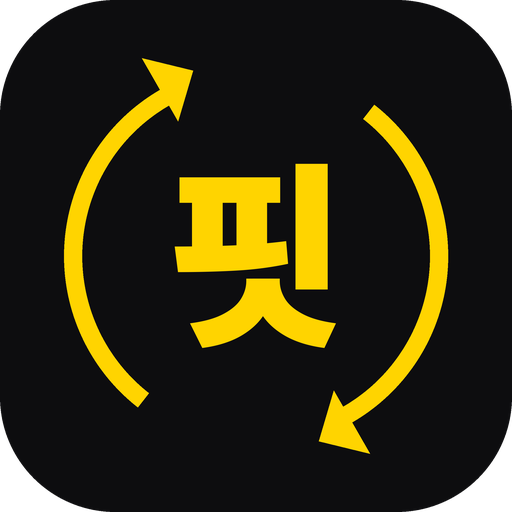
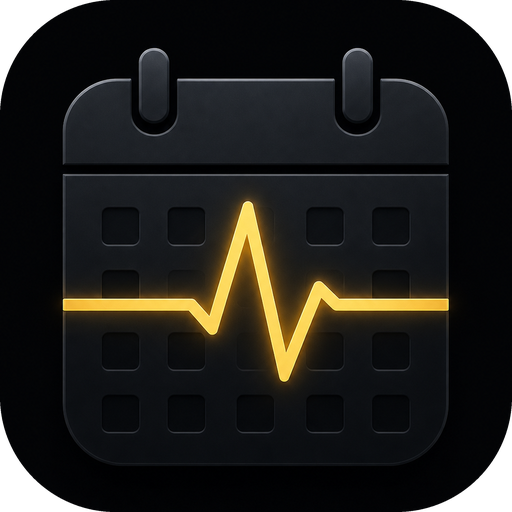
feat(v2.3.2): 앱 아이콘 전면 교체 — 다크 달력 + 골드 펄스(사용자 선택 2번) · 상단 로고 배지도 같은 아이콘 · 캐시버스트 ?v=2.3.2

Changed region(s): [[0.125, 0.0938, 0.875, 0.9062], [0.2188, 0.4688, 0.2812, 0.5]]

diff --git a/index.html b/index.html
@@ -11,9 +11,9 @@
 <meta name="apple-mobile-web-app-status-bar-style" content="black">
 <meta name="apple-mobile-web-app-title" content="교대핏">
 <link rel="manifest" href="manifest.json">
-<link rel="apple-touch-icon" href="apple-touch-icon.png">
-<link rel="icon" type="image/png" sizes="32x32" href="favicon-32.png">
-<link rel="icon" type="image/png" sizes="192x192" href="icon-192.png">
+<link rel="apple-touch-icon" href="apple-touch-icon.png?v=2.3.2">
+<link rel="icon" type="image/png" sizes="32x32" href="favicon-32.png?v=2.3.2">
+<link rel="icon" type="image/png" sizes="192x192" href="icon-192.png?v=2.3.2">
 <link rel="stylesheet" href="https://cdn.jsdelivr.net/gh/orioncactus/pretendard@v1.3.9/dist/web/variable/pretendardvariable-dynamic-subset.min.css">
 <style>
 /* app.css를 못 불러온 경우에도 검색창·검색 버튼·요청 링크가 깨지지 않게 하는 최소 안전장치 (app.css가 오면 이 규칙을 덮어씁니다) */
@@ -24,7 +24,7 @@
 .co-ask-row{display:flex;gap:6px;align-items:stretch}
 .co-ask-b{flex:1 1 0;display:block;padding:9px 7px;border:1px solid #2A2A30;border-radius:11px;background:#1C1C21;color:#EEE;text-decoration:none;text-align:center;font-size:11px;line-height:1.35}
 </style>
-<link rel="stylesheet" href="app.css?v=2.3.1">
+<link rel="stylesheet" href="app.css?v=2.3.2">
 <script>
 /* 저장해둔 화면 테마를 첫 그림 전에 적용 (흰 화면 깜빡임 방지) */
 (function () {
@@ -42,7 +42,7 @@
 
   <header class="topbar">
     <div class="brand">
-      <span class="brand-mark">핏</span>
+      <img class="brand-mark" src="icon-192.png?v=2.3.2" alt="" width="30" height="30">
       <span class="brand-txt">
         <b>교대핏</b>
         <i id="topSub">by 킹용코 · 4조 2교대 · A조</i>
@@ -127,7 +127,7 @@
         </div>
       </div>
 
-      <div class="foot-note">교대핏 v2.3.1 · 기록은 이 기기에만 저장됩니다</div>
+      <div class="foot-note">교대핏 v2.3.2 · 기록은 이 기기에만 저장됩니다</div>
     </section>
 
     <!-- ============ 달력 (첫 화면) ============ -->
@@ -453,7 +453,7 @@
         <span class="cta-ar">↗</span>
       </a>
 
-      <div class="foot-note">교대핏 v2.3.1 · 킹용코</div>
+      <div class="foot-note">교대핏 v2.3.2 · 킹용코</div>
     </section>
 
     <!-- ============ 설정 ============ -->
@@ -568,7 +568,7 @@
         <div class="help">기록은 이 브라우저(localStorage)에만 저장됩니다. 백업 없이 브라우저 데이터를 지우면 기록도 사라집니다.</div>
       </div>
 
-      <div class="foot-note">교대핏 v2.3.1 · 킹용코</div>
+      <div class="foot-note">교대핏 v2.3.2 · 킹용코</div>
     </section>
   </main>
 
@@ -722,6 +722,6 @@
   </div>
 </div>
 
-<script src="app.js?v=2.3.1"></script>
+<script src="app.js?v=2.3.2"></script>
 </body>
 </html>

diff --git a/app.js b/app.js
@@ -1,5 +1,5 @@
 /* ===================================================================
-   교대핏 v2.3.1 — 교대근무 + 헬스·식단 코칭 PWA
+   교대핏 v2.3.2 — 교대근무 + 헬스·식단 코칭 PWA
    순수 JS · localStorage · 단일 폴더 배포용
    v2  : 가이드 탭 · 오늘 내 근무 원탭 역산 · 2026~2027 공휴일 · 러닝 기록
    v2.1: 화면 테마 3종 · A·B·C·D조 표기 · 조 순환 순서(기본 A→C→D→B)
@@ -15,6 +15,7 @@
          · 이달 근태 정산 — 대근·특근·연차·교육 횟수 + 예정 근무시간
          · 근무표 이미지 저장 — 현재 보는 달(내 달력/전체 조)을 1080px PNG로
            (공유 시트 → 없으면 다운로드 + 미리보기 모달)
+   v2.3.2: 앱 아이콘 교체 — 다크 달력 + 골드 펄스(사용자 선택 2번) · 상단 로고 배지도 같은 아이콘
    v2.3.1: 회사 추가 — 한국엔지니어링플라스틱(석유화학 · 4조 2교대 주 07:00~19:00/야 19:00~07:00, 별칭 KEP·한엔플·한국엔지니어링)
    =================================================================== */
 (function () {

diff --git a/sw.js b/sw.js
@@ -1,11 +1,11 @@
-/* 교대핏 service worker v2.3.1
+/* 교대핏 service worker v2.3.2
    목표: 온라인에서는 항상 최신 파일, 오프라인에서는 앱 껍데기 캐시
    - install  : 새 캐시에 자산을 미리 담고 바로 대기 해제(skipWaiting)
    - activate : 구버전 캐시(yongko-shift-*) 전부 삭제 + clients.claim()
    - fetch    : 같은 출처는 네트워크 우선(Network-First). 성공하면 캐시 갱신 후 반환,
                 실패(오프라인)일 때만 캐시 폴백 → 구버전 CSS/JS가 섞이는 현상 원천 차단
 */
-var VERSION = '2.3.1';
+var VERSION = '2.3.2';
 var CACHE = 'yongko-shift-v' + VERSION;
 var ASSETS = [
   './',

diff --git a/app.css b/app.css
@@ -144,9 +144,8 @@ sub{font-size:inherit}
 .brand{display:flex;align-items:center;gap:10px}
 .brand-mark{
   width:30px;height:30px;border-radius:9px;flex:0 0 auto;
-  background:var(--yellow);color:var(--on-accent);
-  display:grid;place-items:center;font-weight:800;font-size:15px;
-  box-shadow:0 0 0 1px rgba(var(--accent-rgb),.35),0 6px 16px rgba(var(--accent-rgb),.18);
+  display:block;object-fit:cover;background:#05060A;
+  box-shadow:0 0 0 1px rgba(255,255,255,.10),0 6px 16px rgba(0,0,0,.45);
 }
 .brand-txt{display:flex;flex-direction:column;line-height:1.15}
 .brand-txt b{font-size:16px;font-weight:800;letter-spacing:-.02em}

diff --git a/README.md b/README.md
@@ -1,4 +1,4 @@
-# 교대핏 (v2.3.1)
+# 교대핏 (v2.3.2)
 
 킹용코(@kingyongko) 교대근무 + 헬스 웹앱. **순수 HTML/CSS/JS**라서 이 폴더만 통째로 올리면 바로 돌아갑니다.
 
@@ -15,12 +15,23 @@ kingyongko_shift_app/
 ├─ app.css                 # 테마 3종 (다크 골드 / 밝은 화이트 / 네이비 블루) · CSS 변수
 ├─ app.js                  # 교대 계산 · 내 회사 찾기 · 코칭 · 공휴일 · 기록 (localStorage)
 ├─ manifest.json           # PWA 매니페스트 (교대핏)
-├─ sw.js                   # 서비스워커 — 네트워크 우선 + 오프라인 캐시 (캐시명 yongko-shift-v2.3.1)
-├─ icon-192.png · icon-512.png          # 앱 아이콘 (골드 '핏' + 교대 회전 링)
+├─ sw.js                   # 서비스워커 — 네트워크 우선 + 오프라인 캐시 (캐시명 yongko-shift-v2.3.2)
+├─ icon-192.png · icon-512.png          # 앱 아이콘 (다크 달력 + 골드 펄스)
 ├─ icon-maskable-192.png · ...-512.png  # 안드로이드 마스크용
 ├─ apple-touch-icon.png    # 아이폰 홈 화면 아이콘
 └─ favicon-32.png
 ```
+
+## v2.3.2에서 바뀐 것 (2026-11-27)
+
+- **앱 아이콘 전면 교체 — 다크 달력 + 골드 펄스**(사용자가 세 안 중 고른 2번). 기존 골드 `핏` + 회전 링 아이콘을 내리고, **검은 달력 위로 골드 심전도 펄스**가 지나가는 디자인으로 6종 전부 다시 뽑았습니다.
+  - `icon-512.png` / `icon-192.png` — 둥근 모서리(22.5%) any 아이콘
+  - `icon-maskable-512.png` / `icon-maskable-192.png` — 안드로이드 적응형 아이콘용. 내용을 **74%** 안에 넣고 배경은 사방 꽉 채워 잘리지 않습니다.
+  - `apple-touch-icon.png`(180) — 아이폰 홈 화면용, 투명 없는 불투명 정사각
+  - `favicon-32.png` — 32px에서도 펄스가 읽히게 골드 펄스 중심으로 크롭 + 밝기 보정
+- **상단 로고 배지** — 노란 `핏` 글자 배지 대신 **같은 아이콘(icon-192) 30px**로 통일.
+- `index.html` 아이콘 링크에 `?v=2.3.2` 캐시버스터 · `app.css`/`app.js` 쿼리 갱신 · `sw.js` `CACHE = yongko-shift-v2.3.2` · 화면 하단 표기 `교대핏 v2.3.2`.
+  - 홈 화면에 이미 설치한 앱은 **한 번 새로 열면** 새 서비스워커가 캐시를 갈아끼웁니다. 아이콘 그림 자체는 iOS가 설치 시점에 저장하므로, 완전히 새 아이콘으로 보려면 **홈 화면에서 지우고 다시 추가**하면 됩니다.
 
 ## v2.3.1에서 바뀐 것 (2026-11-26)
 
@@ -96,7 +107,7 @@ python3 -m http.server 8123
 
 - **GitHub Pages** — 이미 배포됨: `main` 브랜치 루트 → https://nyk5191-creator.github.io/kingyongko-shift/
   파일을 고쳐 `main`에 푸시하면 30~60초 뒤 자동 반영됩니다.
-  ⚠ `sw.js`를 고쳤다면 `CACHE` 값을 `yongko-shift-v2.3.1`처럼 반드시 올려 주세요.
+  ⚠ `sw.js`를 고쳤다면 `CACHE` 값을 `yongko-shift-v2.3.2`처럼 반드시 올려 주세요.
 - **Netlify / Vercel** — 폴더를 드래그해 배포. 빌드 명령 없음, 퍼블리시 디렉터리 = 이 폴더.
 - 배포 후 아이폰 사파리에서 열고 **공유 → 홈 화면에 추가**하면 앱처럼 전체 화면으로 뜹니다.
 

diff --git a/DEPLOY.md b/DEPLOY.md
@@ -14,7 +14,7 @@ cp ../../downloads/kingyongko_shift_app/*.{html,css,js,json,png} . 2>/dev/null  
 git add -A && git commit -m "feat: ..." && git push origin main
 ```
 - 푸시 후 30~60초면 자동 반영(`gh api repos/nyk5191-creator/kingyongko-shift/pages/builds/latest --jq .status` 로 `built` 확인).
-- `sw.js`를 수정했다면 `CACHE` 값을 반드시 올린다(현재 `yongko-shift-v2.3.1`). 안 올리면 기존 사용자 홈 화면 앱이 옛 캐시를 계속 볼 수 있음.
+- `sw.js`를 수정했다면 `CACHE` 값을 반드시 올린다(현재 `yongko-shift-v2.3.2`). 안 올리면 기존 사용자 홈 화면 앱이 옛 캐시를 계속 볼 수 있음.
 - 검증: `curl -s -o /dev/null -w '%{http_code}' https://nyk5191-creator.github.io/kingyongko-shift/` → 200, 그리고 `index.html`/`app.js`/`app.css`/`manifest.json`/`icon-192.png` 모두 200.
 
 ## Pickle GitHub 앱(@nyk5191-creator) 권한 — 2026-11-26 기준
@@ -26,6 +26,13 @@ git add -A && git commit -m "feat: ..." && git push origin main
   - `workflows` → `.github/workflows/*.yml` 푸시 불가: `refusing to allow a GitHub App to create or update workflow ... without 'workflows' permission`
   - 그래서 이번엔 **사용자가 저장소 생성 + Settings → Pages 토글**을 직접 했다.
   - `PATCH /repos/...`(homepage·topics)도 403 — 저장소 소개 링크는 사용자가 직접 넣어야 함.
+
+## v2.3.2 (2026-11-27)
+- **앱 아이콘 6종 전면 교체 — 다크 달력 + 골드 펄스**(사용자가 고른 2번 안, `downloads/icon_opt_2_calendar.png` 1254px 원본에서 생성).
+  - any: `icon-512` / `icon-192` (둥근 모서리 22.5%), maskable: 내용 74% + 배경 풀블리드, `apple-touch-icon` 180 불투명, `favicon-32`는 골드 펄스 중심 크롭.
+  - 생성 스크립트: `work/shift_app_qa/make_icons_v232.py` (이전 아이콘 백업: `work/shift_app_qa/icons_v231_backup/`).
+- **상단 로고 배지** — `<span class="brand-mark">핏</span>` → `<img class="brand-mark" src="icon-192.png?v=2.3.2">` 30×30, CSS 배경/글자 스타일 제거.
+- `?v=2.3.2` 캐시버스트(app.css·app.js·아이콘 링크), `CACHE = yongko-shift-v2.3.2`, 하단 표기 `교대핏 v2.3.2`.
 
 ## v2.3.1 (2026-11-26)
 - **회사 추가 — `한국엔지니어링플라스틱`** (`석유화학 · 정유`): 4조 2교대 · A·B·C·D조 · 주 07:00~19:00 / 야 19:00~07:00, 별칭 `KEP` `한엔플` `한국엔지니어링`. 회사 목록 40곳 → 41곳.
